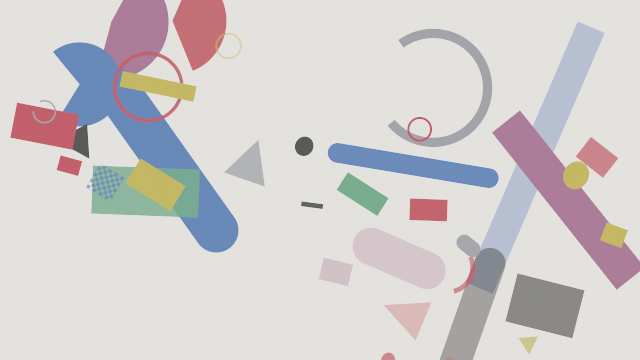
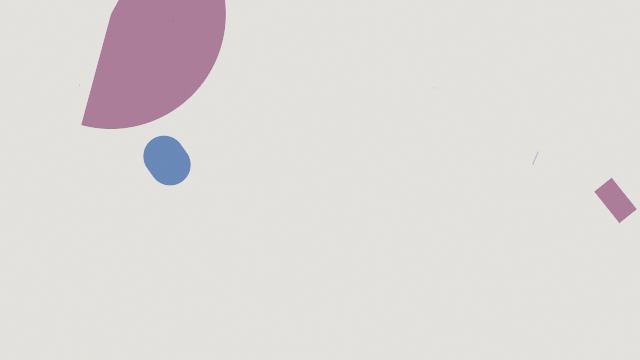
feat(preset): the last five retunes land (plan 0232 phase 4)
Thomas on Red: twice the density at a fixed fine nib (0.11) and a small
tight bloom, so the knot's form reads as many narrow strands instead of
widening into a blur on the treble.

On White: five to seven forms instead of forty, the sixth and seventh
arriving with the mids. A size pump runs at all times (0.9, deeper on
the bass) because a handful of small forms on white paper otherwise
changed too little of the frame for the animation gate. The collage
coverage floor in sanity.rs is re-derived to half On White's new 0.0556;
the emptied-canvas conviction rests on its own constant and is
untouched.

Drift Field: faster drift that the bass pushes, a burst of stars on each
beat, a slow turn, harder twinkle, a wider colour spread.

Radial Bloom: every spoke one fixed width, and a trail zoomed outward
each frame so each ring ripples away from the live one; the palette
walks slowly. Its guide image and alt text are re-rendered.

Walk De Jong's header now says why its beat_index reseed clause stays,
closing the Phase 1 workaround check with Dragon's, which already did.

diff --git a/core/tests/sanity.rs b/core/tests/sanity.rs
@@ -498,7 +498,14 @@ fn coverage_floor(system: SystemKind) -> f32 {
         // floor above. The areal question is now the one that convicts an
         // emptied canvas, at the quiet excitation where emptying happens —
         // [`a_canvas_the_music_empties_is_convicted_and_black_calls_it_full`].
-        SystemKind::ShapeCollage => 0.13,
+        //
+        // Re-derived 2026-09-30 (Plan 0232 Phase 4) from 0.13. `On White` was
+        // cut from forty elements to five-to-seven at the owner's direction, a
+        // sparse canvas by design, and reads 0.0556 against its paper — 2.3x
+        // under the old floor, over this file's 2.2x slack. Half of that
+        // minimum. The emptied-canvas conviction is untouched: it rests on
+        // `MODERATE_MIN_COVERAGE`, not on this floor.
+        SystemKind::ShapeCollage => 0.027,
         // **Derived from the distribution on 2026-09-11**, when the family's
         // first twelve worlds shipped, from a `0.08` borrowed off
         // `FragmentField`. The lowest shipped member is `Echo Plate` at 0.3253 —

diff --git a/docs/preset-guide.md b/docs/preset-guide.md
@@ -219,9 +219,9 @@ figures. It has by far the largest parameter surface, and much of it is family-s
 
 ### `spectrum`
 
-![A radial spectrum readout: a ring of spokes around an empty centre on black, each spoke's length
-and thickness its own band, long magenta spokes to the upper left, short violet ones to the right
-and warm orange ones below](images/gallery/spectrum.png)
+![A radial spectrum readout: a ring of thin spokes of one width around an empty centre on black,
+each spoke's length its own band, long magenta spokes to the upper left, short violet ones to the
+upper right and warm orange ones below](images/gallery/spectrum.png)
 
 *`presets/spectrum_radialbloom.toml`*
 
